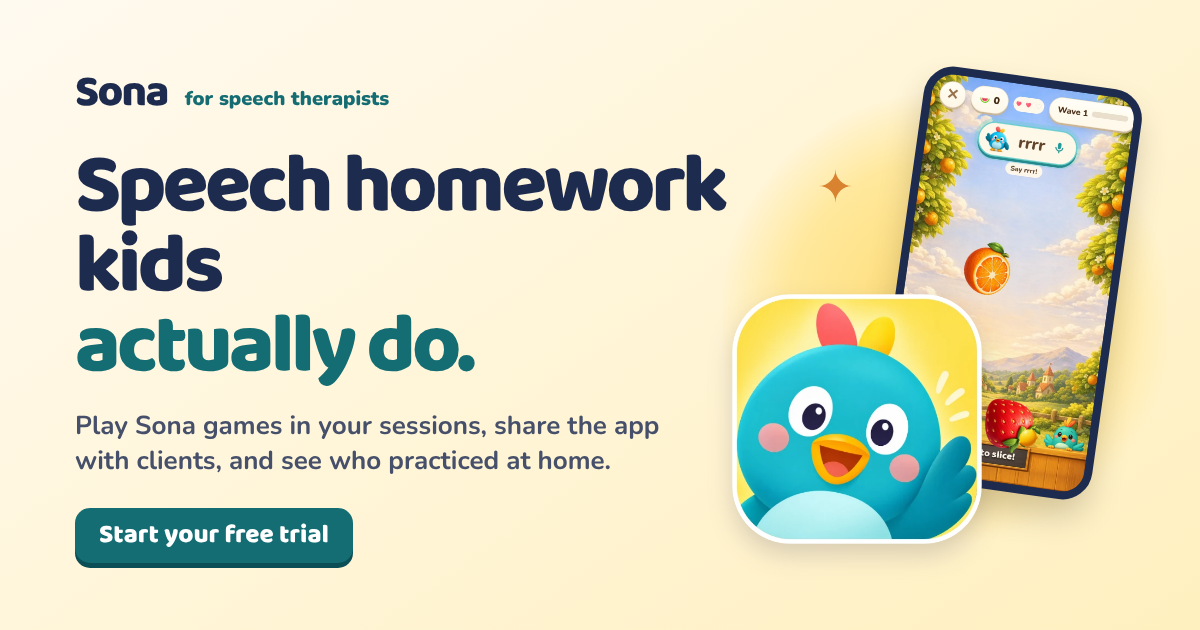
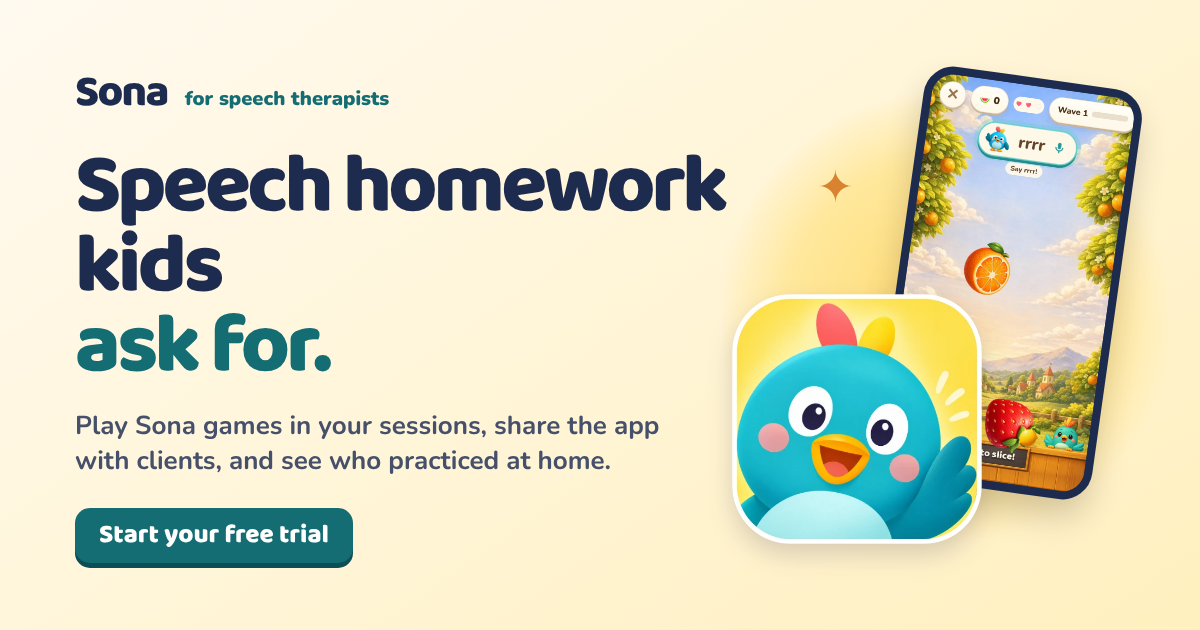
/plans: "Speech homework kids ask for.", Get Sona Pro at 50% off, Lindi's review in two lines; opt-in pages keep their button
- Headline "Speech homework kids ask for." (title, share card v=6).
- Black Friday buttons: "Get Sona Pro at 50% off" (hero and closing),
  "Get Sona Pro" on the card.
- Lindi's review: her title and first words, cut at "…" to two lines on a
  phone; caption "Lindi, parent · App Store review".
- The big capital button and the review row are /plans' only
  (#signup .btn, .hero.hero-q): the opt-in pages at / and /blackfriday
  share for-slps.css and had picked them up; they keep "Get Started".

Claude-Session: https://claude.ai/code/session_01KeyCjKQoWzs1jsDUPR3249

Changed region(s): [[0.0925, 0.4825, 0.4008, 0.6333]]

diff --git a/public/for-slps.html b/public/for-slps.html
@@ -22,7 +22,7 @@
 })();
   </script>
   <meta name="viewport" content="width=device-width, initial-scale=1, viewport-fit=cover" />
-  <title>Sona for speech therapists — speech homework kids actually do</title>
+  <title>Sona for speech therapists — speech homework kids ask for</title>
   <meta name="description" content="Sona Pro for speech therapists, 14 days free. Play Sona games in your sessions, share the app with clients, and see who practiced at home. Built with Rachel, MS, CF-SLP." />
   <!-- THE CLINICIANS' PLANS PAGE (17 Nov 2026, the free packet left out on
        20 Nov 2026). Served at /plans and /checkout (next.config.js); since
@@ -39,16 +39,16 @@
   <meta property="og:type" content="website" />
   <meta property="og:site_name" content="Sona" />
   <meta property="og:url" content="https://www.speaksona.com/plans" />
-  <meta property="og:title" content="Speech homework kids actually do." />
+  <meta property="og:title" content="Speech homework kids ask for." />
   <meta property="og:description" content="Sona Pro for speech therapists: play Sona games in your sessions, share the app with clients, and see who practiced at home. 14 days free." />
-  <meta property="og:image" content="https://speaksona.com/og-slp.png?v=5" />
+  <meta property="og:image" content="https://speaksona.com/og-slp.png?v=6" />
   <meta property="og:image:width" content="1200" />
   <meta property="og:image:height" content="630" />
   <meta property="og:image:alt" content="Sona for speech therapists." />
   <meta name="twitter:card" content="summary_large_image" />
-  <meta name="twitter:title" content="Speech homework kids actually do." />
+  <meta name="twitter:title" content="Speech homework kids ask for." />
   <meta name="twitter:description" content="Sona Pro for speech therapists: play Sona games in your sessions, share the app with clients, and see who practiced at home. 14 days free." />
-  <meta name="twitter:image" content="https://speaksona.com/og-slp.png?v=5" />
+  <meta name="twitter:image" content="https://speaksona.com/og-slp.png?v=6" />
 
   <!-- The bird with no card behind him. The home-screen icon keeps its
        background on purpose: iOS fills a transparent one with black. -->
@@ -95,13 +95,14 @@
   <div class="wrap in"><span><b>Black Friday:</b> Sona Pro is $9.99 a month for your first 3 months.</span><span class="cd-inline" id="bfLeft" role="timer"></span></div>
 </div>
 <section class="hero-band">
-  <div class="wrap hero">
+  <div class="wrap hero hero-q">
   <div class="hero-intro">
     <p class="eyebrow" id="heroEye">Sona for speech therapists</p>
     <!-- A HEADLINE THAT NAMES THE PROBLEM (Travis, 25 Nov 2026: "a more
          compelling headline", with GoHighLevel's Black Friday page to draw
-         on). The lede under it is unchanged ("sub headline is great"). -->
-    <h1>Speech homework kids <span>actually do.</span></h1>
+         on; then "speech homework kids ask for"). The lede under it is
+         unchanged ("sub headline is great"). -->
+    <h1>Speech homework kids <span>ask for.</span></h1>
     <p class="lede">Play Sona games in your sessions, share the app with clients, and see who practiced at home.</p>
   </div>
 
@@ -148,13 +149,16 @@
   </div>
 
   <!-- A PARENT'S OWN WORDS (Travis, 25 Nov 2026): Lindi's App Store review
-       of the family app, word for word, with the name she reviewed under.
-       A real review only; never one written for the page. -->
+       of the family app, her title and the start of her words, cut at the
+       "…" so it stays two lines on a phone ("Try to make it 2 lines"). Her
+       review goes on: "and thinks the games are fun so it's a win-win.
+       We're so glad we found it!" A real review only; never one written
+       for the page, and never a word of hers changed. -->
   <figure class="hero-quote" id="heroQuote">
     <div class="stars" aria-label="5 out of 5 stars">★★★★★</div>
     <p class="qt">Makes practicing fun!</p>
-    <blockquote><p>This app has been so helpful for my 3 year old. She has improved so much and thinks the games are fun so it&rsquo;s a win-win. We&rsquo;re so glad we found it!</p></blockquote>
-    <figcaption><b>Lindi W.</b>, parent &middot; App Store review</figcaption>
+    <blockquote><p>This app has been so helpful for my 3 year old. She has improved so much&hellip;</p></blockquote>
+    <figcaption><b>Lindi</b>, parent &middot; App Store review</figcaption>
   </figure>
 
   </div>
@@ -464,7 +468,7 @@
     var BF_ENDS_AT = Date.UTC(2026, 10, 30, 6, 59, 0);
     var BF = false, bfTimer = 0, bfWas = null;
     try { BF = Date.now() < BF_ENDS_AT; } catch (e) {}
-    var BF_LABEL = "Get Sona Pro at half off";
+    var BF_LABEL = "Get Sona Pro at 50% off";
     // (Travis, 25 Nov 2026) The deal's words are the card's own line and the
     // struck-out price; under the buttons, only "Cancel anytime."
     var proPrice = document.querySelector("#planPro .price b");
@@ -491,7 +495,7 @@
     }
     if (BF) {
       bfWas = bfWords();
-      LABEL = BF_LABEL; $("fGo").textContent = BF_LABEL; $("finalGo").textContent = BF_LABEL; $("proGo").textContent = "Get Sona Pro for $9.99";
+      LABEL = BF_LABEL; $("fGo").textContent = BF_LABEL; $("finalGo").textContent = BF_LABEL; $("proGo").textContent = "Get Sona Pro";
       $("fTerms").hidden = true; $("proWas").hidden = false; proPrice.textContent = "$9.99";
       $("bfBar").hidden = false; $("bfDeal").hidden = false;
       // GoHighLevel's way (Travis, 25 Nov 2026): the deal named over the headline.

diff --git a/public/for-slps.css b/public/for-slps.css
@@ -84,8 +84,8 @@ header {
 .hero {
   display: grid;
   grid-template-columns: minmax(0, 1.06fr) minmax(0, .94fr);
-  grid-template-areas: "intro art" "signup art" "signup quote";
-  grid-template-rows: auto 1fr auto;
+  grid-template-areas: "intro art" "signup art";
+  grid-template-rows: auto 1fr;
   align-items: start;
   gap: 20px clamp(20px, 3vw, 42px);
   padding-block: clamp(30px, 5vw, 62px) 47px;
@@ -122,9 +122,13 @@ header {
 .signup select { padding-right: 5px; }
 .signup input::placeholder { color: #73758a; }
 .signup select:invalid { color: #686980; }
-/* THE BUTTON, BIG (Travis, 25 Nov 2026, from GoHighLevel's Black Friday
-   page): the width of the form, taller, in capitals, the deal in its words. */
-.signup .btn { align-self: stretch; margin-top: 3px; min-height: 62px; padding-inline: 18px; border-radius: 16px; font-size: 21px; letter-spacing: .02em; text-transform: uppercase; }
+.signup .btn { align-self: flex-start; margin-top: 3px; min-width: 146px; }
+/* /plans only (the opt-in pages share this sheet and keep their button):
+   THE BUTTON, BIG (Travis, 25 Nov 2026, from GoHighLevel's Black Friday
+   page): the width of the form, taller, in capitals, the deal in its words;
+   and Lindi's review under the form. */
+#signup .btn { align-self: stretch; min-height: 62px; padding-inline: 18px; border-radius: 16px; font-size: 21px; letter-spacing: .02em; text-transform: uppercase; }
+.hero.hero-q { grid-template-areas: "intro art" "signup art" "signup quote"; grid-template-rows: auto 1fr auto; }
 .eyebrow span { color: var(--ink); background: var(--butter); padding: 2px 7px; border-radius: 6px; }
 /* Lindi's review (25 Nov 2026) */
 .hero-quote { grid-area: quote; justify-self: center; width: min(100%, 470px); margin: 0; padding: 18px 20px; border-radius: 18px; background: var(--mint); color: var(--ink); }
@@ -351,7 +355,8 @@ a.btn { text-decoration: none; }
 }
 @media (max-width: 700px) {
   .hero, .kidside .in, .privacy { grid-template-columns: minmax(0, 1fr); }
-  .hero { grid-template-areas: "intro" "art" "signup" "quote"; grid-template-rows: auto; justify-items: center; gap: 17px; padding-block: 23px 25px; }
+  .hero { grid-template-areas: "intro" "art" "signup"; grid-template-rows: auto; justify-items: center; gap: 17px; padding-block: 23px 25px; }
+  .hero.hero-q { grid-template-areas: "intro" "art" "signup" "quote"; grid-template-rows: auto; }
   .hero-intro { gap: 8px; justify-items: center; text-align: center; }
   .hero h1 { max-width: 480px; font-size: clamp(2.55rem, 8vw, 4rem); }
   .hero-l { gap: 13px; }

diff --git a/public/start.html b/public/start.html
@@ -39,14 +39,14 @@
   <meta property="og:url" content="https://www.speaksona.com/" />
   <meta property="og:title" content="More reps between sessions." />
   <meta property="og:description" content="Speech practice games for SLPs and SLPAs: kids say their sound to play. Use Sona in your sessions, then send it home as homework." />
-  <meta property="og:image" content="https://speaksona.com/og-slp.png?v=5" />
+  <meta property="og:image" content="https://speaksona.com/og-slp.png?v=6" />
   <meta property="og:image:width" content="1200" />
   <meta property="og:image:height" content="630" />
   <meta property="og:image:alt" content="Sona for speech therapists." />
   <meta name="twitter:card" content="summary_large_image" />
   <meta name="twitter:title" content="More reps between sessions." />
   <meta name="twitter:description" content="Speech practice games for SLPs and SLPAs: kids say their sound to play. Use Sona in your sessions, then send it home as homework." />
-  <meta name="twitter:image" content="https://speaksona.com/og-slp.png?v=5" />
+  <meta name="twitter:image" content="https://speaksona.com/og-slp.png?v=6" />
 
   <link rel="icon" type="image/png" href="/favicon.png?v=2" />
   <link rel="apple-touch-icon" href="/apple-touch-icon.png?v=2" />

diff --git a/public/bf.html b/public/bf.html
@@ -38,7 +38,7 @@
   <meta property="og:url" content="https://www.speaksona.com/blackfriday" />
   <meta property="og:title" content="Black Friday: Sona Pro, half off." />
   <meta property="og:description" content="Black Friday for SLPs and SLPAs: Sona Pro is half off until Sunday at 11:59 PM Mountain." />
-  <meta property="og:image" content="https://speaksona.com/og-slp.png?v=5" />
+  <meta property="og:image" content="https://speaksona.com/og-slp.png?v=6" />
   <meta property="og:image:width" content="1200" />
   <meta property="og:image:height" content="630" />
   <meta name="twitter:card" content="summary_large_image" />

diff --git a/tools/og/og-slp.html b/tools/og/og-slp.html
@@ -53,7 +53,7 @@
 <body>
   <main class="content">
     <div class="brand"><strong>Sona</strong><span>for speech therapists</span></div>
-    <h1>Speech homework kids <span>actually do.</span></h1>
+    <h1>Speech homework kids <span>ask for.</span></h1>
     <p>Play Sona games in your sessions, share the app with clients, and see who practiced at home.</p>
     <div class="cta">Start your free trial</div>
   </main>

diff --git a/CLAUDE.md b/CLAUDE.md
@@ -3250,15 +3250,19 @@ in", TRIALGO1's `sona.slp.wantplan` from /plans, the trial form's email).
   inbox.
 - The Pixel's Lead (InitiateCheckout after the opt-in's Lead) fires as the
   page leaves for Stripe. Under the button: "Secure checkout with Stripe."
-- **The same day, on /plans:** the headline "Speech homework kids actually
-  do." (title, share card `og-slp.png?v=5`), the hero button the form's
-  width in capitals, Black Friday's eyebrow "Black Friday · Sona Pro half
-  off" and button "Get Sona Pro at half off", Lindi's App Store review word
-  for word beside the hero (a real review only), the Sona Pro lines (Sona
-  Lite, unlimited accounts for clients, the SLP dashboard, Share & earn with
-  a gift icon), "Cancel anytime." under both plan buttons, the two-line
-  Black Friday box, and no parents' price box or "Good to know" section.
-  **Rachel's:** the headline and the review on a clinicians' page.
+- **The same day, on /plans:** the headline "Speech homework kids ask for."
+  (title, share card `og-slp.png?v=6`, which the opt-in pages share), the
+  hero button the form's width in capitals (`#signup .btn`, /plans only:
+  Travis, "I didn't want to change the opt-in page", so `/` and
+  `/blackfriday` keep their plain "Get Started"), Black Friday's eyebrow
+  "Black Friday · Sona Pro half off", the hero and closing buttons "Get Sona
+  Pro at 50% off" and the card's "Get Sona Pro", Lindi's App Store review
+  beside the hero (a real review only: her title and her first words, cut
+  at "…" to two lines, "Lindi, parent · App Store review"), the Sona Pro
+  lines (Sona Lite, unlimited accounts for clients, the SLP dashboard, Share
+  & earn with a gift icon), "Cancel anytime." under both plan buttons, the
+  two-line Black Friday box, and no parents' price box or "Good to know"
+  section. **Rachel's:** the headline and the review on a clinicians' page.
 `caseloadtest`, `landingtest`, `shiptest`, `slpapi`, `telemetrytest` play it.
 
 ## The app lives at app.speaksona.com (APPHOST1, 17 Nov 2026)
